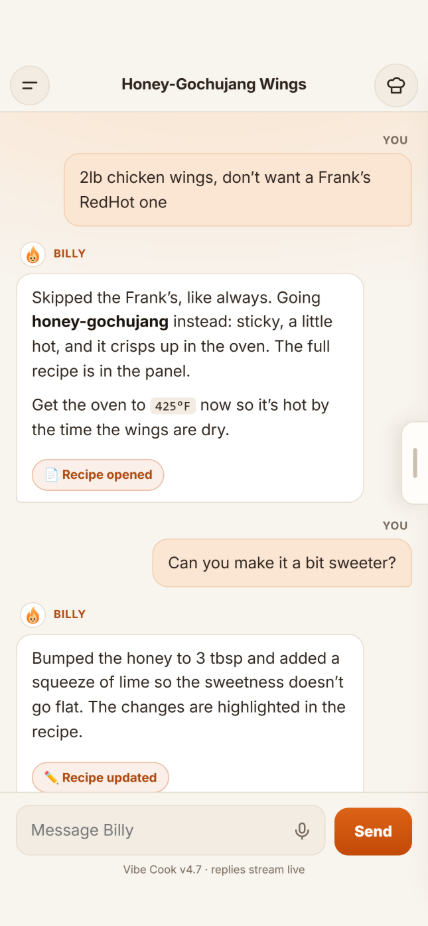
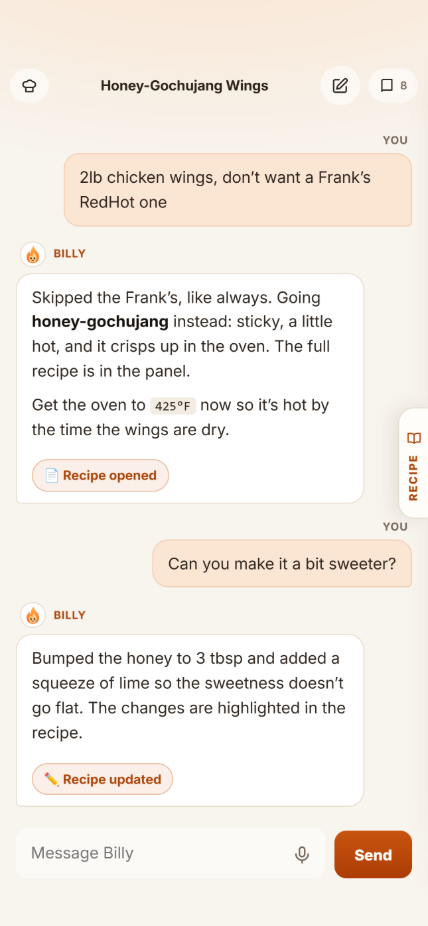
Policies dated September 28, 2026: recipe photos and the 1.1 Settings layout; new screenshots

diff --git a/privacy.html b/privacy.html
@@ -15,15 +15,16 @@
 </div></header>
 <main class="wrap">
 <article class="doc"><h1>Privacy Policy</h1>
-<p><em>Last updated: September 14, 2026</em></p>
+<p><em>Last updated: September 28, 2026</em></p>
 <p>Vibe Cook ("we", "us") is operated by Zack Katsiroubas as a sole proprietor, based in Ontario, Canada. This policy explains what information Vibe Cook collects, why, who it's shared with, how long it's kept, and how to delete it.</p>
 <p>Vibe Cook is offered to users in Canada and the United States.</p>
 <h2>1. Information we collect</h2>
 <p><strong>Account information.</strong> When you create an account, we collect your email address through Supabase Authentication. If you sign in with Google, we receive the email address associated with your Google account. If you sign in with Apple, we receive the email address Apple gives us, which may be a private relay address if you choose "Hide My Email". We do not receive or store your password in plain text — authentication is handled by Supabase.</p>
 <p><strong>Kitchen profile.</strong> To make the app useful without you re-explaining yourself every time, we store:</p>
 <ul><li>Your name (as you choose to enter it)</li><li>Your kitchen equipment</li><li>Ingredients or foods you never want suggested ("no-go" list) — <strong>this is where allergy and medical-diet information would be entered if you choose to enter it</strong>, and the app asks for your consent before you can add anything to it or to your diet (see our Consumer Health Data Policy)</li><li>Standing ingredient substitutions ("swaps")</li><li>Your diet (e.g. vegetarian, gluten-free — as free text you provide)</li><li>Spice level and cooking skill/detail-level preferences</li></ul>
-<p><strong>Saved recipes.</strong> When you save a recipe from a chat, we store its title, the collection you filed it in, its ingredients and steps, your rating, when you last cooked it, and the recipe text itself.</p>
-<p><strong>Chat messages.</strong> When you chat with Vibe Cook, your messages are sent to OpenAI to generate a response (see "Third parties" below). We also store your recent chats in our own database so you can reopen them from the Recent chats list: your messages, the replies, the recipe that was on screen, and whether you saved it to your cookbook. We keep your 50 most recent chats; older ones are deleted automatically. You can delete any chat yourself at any time.</p>
+<p><strong>Saved recipes.</strong> When you save a recipe from a chat, we store its title, the collection you filed it in, its ingredients and steps, your rating, when you last cooked it and how many times, and the recipe text itself.</p>
+<p><strong>Recipe photos.</strong> If you choose to, you can add one photo to a saved recipe — a picture of the dish you cooked. You take it with the camera or pick it from your photo library; the app only opens either one when you tap "Add a photo," and only the one photo you choose leaves your phone. Before uploading, the app re-saves the photo at a smaller size, which also removes the hidden details a camera embeds in a photo, such as where it was taken. Your photos are private to your account: no other user can see them, and they are not sent to OpenAI or any other company except Supabase, which stores them. Adding a new photo to a recipe replaces and deletes the old one. Adding photos is entirely optional.</p>
+<p><strong>Chat messages.</strong> When you chat with Vibe Cook, your messages are sent to OpenAI to generate a response (see "Third parties" below). We also store your recent chats in our own database so you can reopen or delete them in Settings → Recent chats, and so Vibe Cook can offer back a recipe you cooked but never saved: your messages, the replies, the recipe that was on screen, and whether you saved it to your cookbook. We keep your 50 most recent chats; older ones are deleted automatically. You can delete any chat yourself at any time.</p>
 <p><strong>Voice input.</strong> If you use the microphone to dictate a message, your speech is turned into text by Apple's speech recognition. On iPhones that support it, this happens entirely on your phone. On others, Apple processes the audio under its own privacy policy. We never receive or store the audio, only the text you then send.</p>
 <p><strong>Subscription and purchase information.</strong> If you start a free trial or subscribe to Full Kitchen Access, Apple processes the payment. We never see your card or payment details. We receive and store your subscription's status (for example, on a free trial, active, or ended), which plan you chose, when the current period ends, and whether it was a real or a test (sandbox) purchase. Our subscription service provider, RevenueCat, receives your purchase history from Apple (see "Third parties" below).</p>
 <p><strong>Free chat allowance.</strong> Without a subscription, you get one free chat a week. To enforce that, we store which chat was your free one, when it started, and how many of its messages you've used.</p>
@@ -34,16 +35,16 @@
 <p>We use this information solely to operate the app: to authenticate you, to remember your kitchen setup and preferences so the chat can give you relevant answers, to store recipes you save, to generate chat responses, to know whether you have Full Kitchen Access, to apply the free allowance and usage limits, and to protect the service from abuse.</p>
 <h2>3. Who we share it with</h2>
 <p>We share information with the following third-party service providers, each of whom processes it only to provide their service to us:</p>
-<div class="table"><table><thead><tr><th>Third party</th><th>What they receive</th><th>Purpose</th><th>Location</th></tr></thead><tbody><tr><td><strong>Supabase</strong></td><td>Account email, kitchen profile, saved recipes, recent chats, subscription status, free chat allowance, usage and security records</td><td>Hosting, authentication, and database storage</td><td>Data is stored in Supabase's infrastructure; consult Supabase's own privacy policy for their hosting region</td></tr><tr><td><strong>OpenAI</strong></td><td>Your chat messages (the current conversation, up to its 40 most recent messages); a "memory block" containing your kitchen profile fields and the titles, collections and ratings of up to 30 of your most recent saved recipes; and the full text of a recipe only when it's the one open in the chat (for example, when you ask to change a saved recipe)</td><td>Generating recipe and chat responses</td><td>United States</td></tr><tr><td><strong>RevenueCat</strong></td><td>A random account identifier (not your name or email), your purchase and subscription history from Apple, basic app and device information such as app version, operating system, country, and language, and your IP address, as with any internet request</td><td>Checking purchases and managing subscriptions</td><td>United States</td></tr><tr><td><strong>Apple</strong></td><td>Payment and subscription purchases, which Apple processes itself; your email if you choose "Sign in with Apple"; and dictated speech, when your iPhone can't transcribe it on the device</td><td>Payments, sign-in, speech recognition, and app distribution</td><td>Handled under Apple's own privacy policy</td></tr><tr><td><strong>Google</strong></td><td>Your email address, if you choose "Continue with Google"</td><td>Sign-in</td><td>Handled under Google's own privacy policy</td></tr></tbody></table></div>
+<div class="table"><table><thead><tr><th>Third party</th><th>What they receive</th><th>Purpose</th><th>Location</th></tr></thead><tbody><tr><td><strong>Supabase</strong></td><td>Account email, kitchen profile, saved recipes and any recipe photos you add, recent chats, subscription status, free chat allowance, usage and security records</td><td>Hosting, authentication, and database storage</td><td>Data is stored in Supabase's infrastructure; consult Supabase's own privacy policy for their hosting region</td></tr><tr><td><strong>OpenAI</strong></td><td>Your chat messages (the current conversation, up to its 40 most recent messages); a "memory block" containing your kitchen profile fields and the titles, collections and ratings of up to 30 of your most recent saved recipes; and the full text of a recipe only when it's the one open in the chat (for example, when you ask to change a saved recipe)</td><td>Generating recipe and chat responses</td><td>United States</td></tr><tr><td><strong>RevenueCat</strong></td><td>A random account identifier (not your name or email), your purchase and subscription history from Apple, basic app and device information such as app version, operating system, country, and language, and your IP address, as with any internet request</td><td>Checking purchases and managing subscriptions</td><td>United States</td></tr><tr><td><strong>Apple</strong></td><td>Payment and subscription purchases, which Apple processes itself; your email if you choose "Sign in with Apple"; and dictated speech, when your iPhone can't transcribe it on the device</td><td>Payments, sign-in, speech recognition, and app distribution</td><td>Handled under Apple's own privacy policy</td></tr><tr><td><strong>Google</strong></td><td>Your email address, if you choose "Continue with Google"</td><td>Sign-in</td><td>Handled under Google's own privacy policy</td></tr></tbody></table></div>
 <p><strong>Cross-border disclosure notice (Quebec Law 25):</strong> Your chat messages and profile information are sent to OpenAI, and your purchase history to RevenueCat, both of which process data in the United States. This means your personal information is transferred outside Quebec and Canada. We only send what's needed: to OpenAI, what's needed to generate a response; to RevenueCat, what's needed to check your subscription. By using the chat feature, or by subscribing, you consent to this transfer.</p>
 <p><strong>Content delivery network.</strong> The app loads a software library (<code>@supabase/supabase-js</code>) from a third-party content delivery network (jsDelivr) each time it starts. This means jsDelivr's servers receive a request from your device, which typically includes your IP address, in the same way any website visit would. This is standard practice for web-based apps and is not something we can disable without hosting the library ourselves.</p>
 <p>We do not sell your personal information to anyone, and we do not share it for advertising purposes.</p>
 <h2>4. How long we keep it</h2>
-<p>We keep your account information, kitchen profile, saved recipes, subscription status, free chat allowance, and usage records for as long as your account exists. We keep your 50 most recent chats; when you start a 51st, the oldest is deleted automatically, and you can delete any chat sooner yourself. A separate log of recent chat attempts, which holds only the scrambled IP value and a time, is deleted after 25 hours.</p>
+<p>We keep your account information, kitchen profile, saved recipes and their photos, subscription status, free chat allowance, and usage records for as long as your account exists. We keep your 50 most recent chats; when you start a 51st, the oldest is deleted automatically, and you can delete any chat sooner yourself. A separate log of recent chat attempts, which holds only the scrambled IP value and a time, is deleted after 25 hours.</p>
 <p>If you delete your account, all of this data is deleted, and we also ask RevenueCat to delete its record of your purchases (see "Deleting your data" below). Apple keeps its own record of your purchases under its own policies. We do not control how long OpenAI retains chat messages sent to it — see OpenAI's own data usage and retention policies for their API.</p>
 <h2>5. Your rights and choices</h2>
-<p><strong>Access and correction.</strong> You can view and edit your kitchen profile at any time in the "My Kitchen" screen, view and manage your saved recipes in "My Cookbook," view your recent chats from the menu button at the top left of the chat, and see your subscription in ⚙ Settings → Subscription.</p>
-<p><strong>Deletion.</strong> You can delete a single chat by pressing and holding it in the Recent chats list. You can permanently delete your account from ⚙ Settings → Danger zone. This immediately and irreversibly deletes your account, your kitchen profile, your chats, every saved recipe, your subscription status, and your usage records, and asks RevenueCat to delete your purchase history. This cannot be undone. <strong>Deleting your account does not cancel a Full Kitchen Access subscription.</strong> Cancel it with Apple (iPhone Settings → your name → Subscriptions) so you aren't charged again.</p>
+<p><strong>Access and correction.</strong> You can view and edit your kitchen profile at any time in the "My Kitchen" screen, view and manage your saved recipes and their photos in "My Cookbook," view your recent chats in Settings → Recent chats, and see your subscription in Settings → Subscription. Settings is in My Kitchen, under "Account &amp; more."</p>
+<p><strong>Deletion.</strong> You can delete a single chat by tapping the trash icon next to it in Settings → Recent chats. Deleting a saved recipe also deletes its photo. You can permanently delete your account from Settings → Delete account. This immediately and irreversibly deletes your account, your kitchen profile, your chats, every saved recipe and recipe photo, your subscription status, and your usage records, and asks RevenueCat to delete your purchase history. This cannot be undone. <strong>Deleting your account does not cancel a Full Kitchen Access subscription.</strong> Cancel it with Apple (iPhone Settings → your name → Subscriptions) so you aren't charged again.</p>
 <p><strong>Data portability (known gap).</strong> At this time, Vibe Cook does not offer a self-serve tool to export a copy of your data before deleting it. If you would like a copy of your data, contact us at the address below and we will provide it manually. Building an automated export tool is tracked as upcoming work — see <code>docs/legal/status.md</code>.</p>
 <p><strong>Opting out of sale.</strong> We do not sell personal information, and we do not share it for targeted advertising, so there is nothing to opt out of. We are stating this explicitly to satisfy applicable "right to opt out of sale" requirements even though the underlying practice does not occur.</p>
 <p><strong>Withdrawing consent.</strong> You may withdraw your consent to our processing of your information at any time by deleting your account. Because chat responses require sending your message to OpenAI, you cannot use the chat feature while withholding that specific consent — the alternative is not sending a message.</p>

diff --git a/terms.html b/terms.html
@@ -15,7 +15,7 @@
 </div></header>
 <main class="wrap">
 <article class="doc"><h1>Terms of Service</h1>
-<p><em>Last updated: September 14, 2026</em></p>
+<p><em>Last updated: September 28, 2026</em></p>
 <p>These Terms of Service ("Terms") govern your use of Vibe Cook (the "App"), operated by Zack Katsiroubas ("we", "us"), based in Ontario, Canada. The App is offered in Canada and the United States. By creating an account or using the App, you agree to these Terms and to our Privacy Policy.</p>
 <h2>1. Not medical or dietary advice</h2>
 <p><strong>Vibe Cook's recipe suggestions, ingredient information, and dietary guidance are generated by artificial intelligence and are not reviewed by a nutritionist, dietitian, allergist, or medical professional.</strong></p>
@@ -29,10 +29,10 @@
 <ul><li>Use the App to abuse, overload, or attempt to extract the underlying prompts or system behind the chat feature</li><li>Scrape, reverse-engineer, or systematically extract App content or data</li><li>Attempt to resell, sublicense, or provide access to the App to others without our permission</li><li>Use the App for any unlawful purpose</li></ul>
 <p>We may suspend or terminate your account if you violate these Terms.</p>
 <h2>5. Your content</h2>
-<p>Recipes you save, and any information you enter into your kitchen profile, belong to you. By saving content in the App, you grant us the limited right to store and process it solely to provide the App's features to you (for example, including your saved recipe titles in the context sent to OpenAI when you chat).</p>
+<p>Recipes you save, photos you add to them, and any information you enter into your kitchen profile, belong to you. Only add photos you took or have the right to use. By saving content in the App, you grant us the limited right to store and process it solely to provide the App's features to you (for example, including your saved recipe titles in the context sent to OpenAI when you chat).</p>
 <p><strong>AI-generated content.</strong> Recipes and chat responses are generated by an AI model. We do not guarantee that AI-generated recipe content is original, accurate, or free of similarity to existing published recipes, and we make no ownership or exclusivity claims over AI-generated text on your behalf or ours.</p>
 <h2>6. Account termination and your data</h2>
-<p>You may delete your account at any time from ⚙ Settings → Danger zone. This immediately and permanently deletes your account, kitchen profile, chats, and saved recipes, and cannot be undone. It does not cancel a Full Kitchen Access subscription; cancel that with Apple first (see §7).</p>
+<p>You may delete your account at any time from Settings → Delete account (Settings is in My Kitchen, under "Account &amp; more"). This immediately and permanently deletes your account, kitchen profile, chats, saved recipes and recipe photos, and cannot be undone. It does not cancel a Full Kitchen Access subscription; cancel that with Apple first (see §7).</p>
 <p>We may suspend or terminate your account for violation of these Terms, or discontinue the App entirely. If we discontinue the App, we will provide reasonable notice where possible and you will be able to delete your account and request your data before the shutdown, consistent with our Privacy Policy. If we discontinue the App, we will stop renewing subscriptions, and you can ask Apple for a refund of any unused paid period (see §7).</p>
 <h2>7. Subscriptions and payments</h2>
 <p><strong>What's free.</strong> Without a subscription, you get one free chat with Billy every 7 days, with up to 3 messages in it. The 7 days start with that chat's first message. You can save the recipe it makes, and your Kitchen, Cookbook and Settings stay available. We may change the free allowance in the future.</p>

diff --git a/health-data.html b/health-data.html
@@ -15,7 +15,7 @@
 </div></header>
 <main class="wrap">
 <article class="doc"><h1>Consumer Health Data Policy</h1>
-<p><em>Last updated: September 14, 2026</em></p>
+<p><em>Last updated: September 28, 2026</em></p>
 <p>This policy is a supplement to our Privacy Policy. It explains how Vibe Cook, operated by Zack Katsiroubas as a sole proprietor in Ontario, Canada, handles "consumer health data" as defined by the health-data laws of Washington, Nevada and Connecticut. It applies to everyone who uses Vibe Cook, wherever they live.</p>
 <h2>What health data we collect</h2>
 <p>Vibe Cook doesn't ask for your health information, and you can use it without giving any. But some of what you can tell it might be health data:</p>
@@ -33,7 +33,7 @@
 <p>We have no affiliates. We don't share health data with RevenueCat, Apple or Google.</p>
 <h2>Your rights</h2>
 <p>You can:</p>
-<ul><li><strong>See</strong> your "Never suggest" list and diet at any time in My Kitchen, and your recent chats in the chat menu.</li><li><strong>Change or remove</strong> anything in them at any time.</li><li><strong>Withdraw your consent</strong> by unticking the box in My Kitchen.</li><li><strong>Delete</strong> all of it by deleting a chat (press and hold it in Recent chats) or your whole account (Settings → Danger zone). Deleting your account deletes your health data from our database, including backups as they expire. We don't control how long OpenAI keeps API data; see OpenAI's own policies.</li><li><strong>Ask us</strong> for a copy of your health data, a list of every third party we've shared it with, or for us to delete it, by emailing <a href="mailto:vibecook.official.toronto@gmail.com.">vibecook.official.toronto@gmail.com.</a> We'll respond within 45 days, and we won't treat you differently for asking. If we turn down your request, you can appeal by replying to our answer; we'll respond to the appeal within 45 days, and if you disagree with the result you can contact your state's Attorney General (in Washington, atg.wa.gov).</li></ul>
+<ul><li><strong>See</strong> your "Never suggest" list and diet at any time in My Kitchen, and your recent chats in Settings → Recent chats (Settings is in My Kitchen, under "Account &amp; more").</li><li><strong>Change or remove</strong> anything in them at any time.</li><li><strong>Withdraw your consent</strong> by unticking the box in My Kitchen.</li><li><strong>Delete</strong> all of it by deleting a chat (the trash icon next to it in Settings → Recent chats) or your whole account (Settings → Delete account). Deleting your account deletes your health data from our database, including backups as they expire. We don't control how long OpenAI keeps API data; see OpenAI's own policies.</li><li><strong>Ask us</strong> for a copy of your health data, a list of every third party we've shared it with, or for us to delete it, by emailing <a href="mailto:vibecook.official.toronto@gmail.com.">vibecook.official.toronto@gmail.com.</a> We'll respond within 45 days, and we won't treat you differently for asking. If we turn down your request, you can appeal by replying to our answer; we'll respond to the appeal within 45 days, and if you disagree with the result you can contact your state's Attorney General (in Washington, atg.wa.gov).</li></ul>
 <h2>Contact</h2>
 <p>Zack Katsiroubas — <a href="mailto:vibecook.official.toronto@gmail.com">vibecook.official.toronto@gmail.com</a></p>
 <hr>
